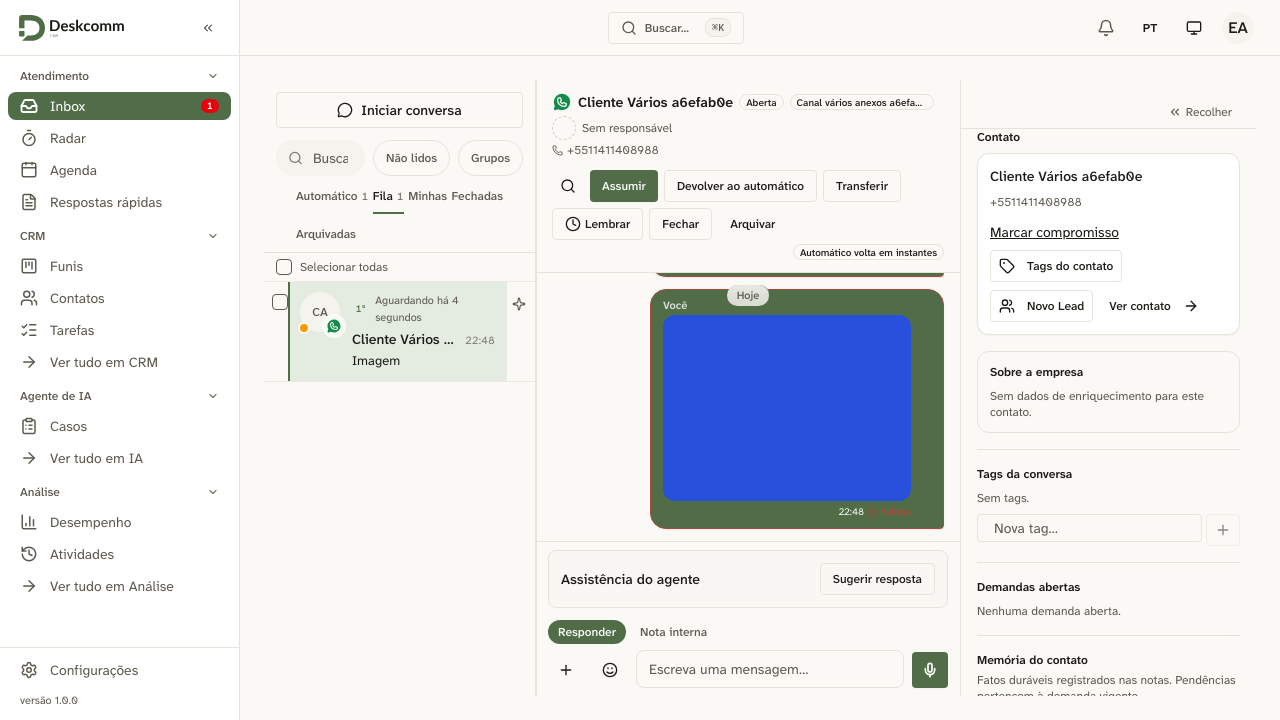
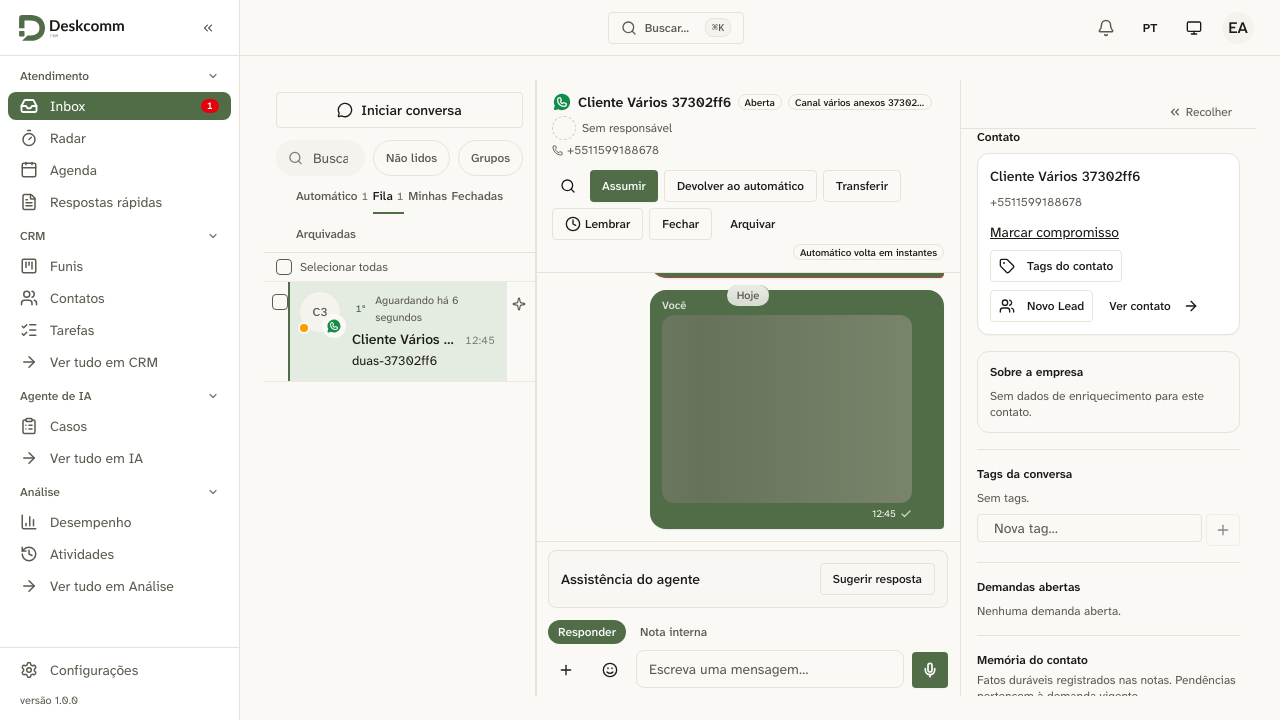
test(e2e): nota com duas fotos, teto de cinco e inválidos fora da leva
Três casos a mais em inbox-varios-anexos, pela tela e no ambiente isolado:
- (3) "Nota interna" com duas fotos grava duas notas, na ordem da escolha
  (medido no banco pelo tamanho de cada anexo);
- (4) seis fotos pelo "+": entram as cinco primeiras e o aviso do teto aparece;
- (5) arquivo vazio e .exe saem da leva com aviso nomeado; a foto válida segue.

Medido: 5/5 em duas rodadas seguidas (30,9 s e 27,1 s). Capturas 1–4
refeitas na mesma rodada; 5–8 novas. Sem dado de cliente.

diff --git a/tests/e2e/inbox-varios-anexos.spec.ts b/tests/e2e/inbox-varios-anexos.spec.ts
@@ -240,3 +240,78 @@ test("(2) o primeiro falha: o segundo não sai e a bolha dele diz por quê", asy
   await expect(page.getByRole("tooltip")).toContainText("Não saiu porque o arquivo anterior falhou.");
   await page.screenshot({ path: evidencia("4-segunda-nao-saiu.png") });
 });
+
+/** N cópias PNG válidas com nomes distintos — para medir o teto da leva. */
+function fotos(n: number) {
+  return Array.from({ length: n }, (_, i) => ({ ...FOTO_1, name: `leva-${i + 1}-${SUFIXO}.png` }));
+}
+
+test("(3) nota interna com duas fotos: duas notas, na ordem da escolha", async ({ page }) => {
+  await login(page);
+  await abrirConversa(page);
+  await page.getByRole("button", { name: "Nota interna" }).click();
+
+  const legenda = `nota-${SUFIXO}`;
+  await escolherDuasEEnviar(page, legenda, "5-nota-dialogo-com-as-duas.png");
+
+  // A nota não é otimista: o diálogo só fecha depois de as duas gravarem.
+  // Quem diz a ordem é o banco (created_at), medido pelo tamanho de cada anexo.
+  const linhas = async () => {
+    const { data, error } = await db
+      .from("conversation_notes")
+      .select("body, media_size_bytes, media_storage_path, created_at")
+      .eq("conversation_id", conversa)
+      .not("media_storage_path", "is", null)
+      .order("created_at", { ascending: true });
+    if (error) throw new Error(`conversation_notes: ${error.message}`);
+    return data as { body: string; media_size_bytes: number; media_storage_path: string }[];
+  };
+  await expect.poll(async () => (await linhas()).length, { timeout: 15_000 }).toBe(2);
+  const notas = await linhas();
+  console.info(`[inbox-varios-anexos] notas = ${JSON.stringify(notas.map((n) => ({ body: n.body, bytes: n.media_size_bytes })))}`);
+  expect(notas.map((n) => n.media_size_bytes)).toEqual([FOTO_1.buffer.length, FOTO_2.buffer.length]);
+  expect(notas[0]!.body).toBe(legenda);
+
+  const imagens = page.getByRole("img", { name: "Imagem da nota interna" });
+  await expect(imagens).toHaveCount(2, { timeout: 15_000 });
+  await imagens.nth(1).scrollIntoViewIfNeeded();
+  await page.screenshot({ path: evidencia("6-duas-notas.png") });
+});
+
+test("(4) seis fotos pelo \"+\": entram cinco e o aviso diz por quê", async ({ page }) => {
+  await login(page);
+  await abrirConversa(page);
+
+  await page.getByRole("button", { name: "Anexar" }).click();
+  const seis = fotos(6);
+  await page.locator('input[type="file"][accept^="image"]').setInputFiles(seis);
+
+  await expect(page.getByText("Dá para enviar até 5 arquivos de uma vez. Os demais ficaram de fora.")).toBeVisible();
+  const dialogo = page.getByRole("dialog", { name: "Enviar anexo" });
+  await expect(dialogo).toBeVisible();
+  const nomes = await dialogo.locator("img").evaluateAll((imgs) => imgs.map((i) => (i as HTMLImageElement).alt));
+  expect(nomes).toEqual(seis.slice(0, 5).map((f) => f.name));
+  await page.screenshot({ path: evidencia("7-teto-de-cinco.png") });
+  await dialogo.getByRole("button", { name: "Cancelar" }).click();
+  await expect(dialogo).toBeHidden();
+});
+
+test("(5) arquivo inválido na leva: sai com aviso nomeado e o válido segue", async ({ page }) => {
+  await login(page);
+  await abrirConversa(page);
+
+  await page.getByRole("button", { name: "Anexar" }).click();
+  const vazio = { name: `vazio-${SUFIXO}.png`, mimeType: "image/png", buffer: Buffer.alloc(0) };
+  const estranho = { name: `programa-${SUFIXO}.exe`, mimeType: "application/x-msdownload", buffer: Buffer.from("MZ") };
+  await page.locator('input[type="file"][accept^="image"]').setInputFiles([vazio, FOTO_1, estranho]);
+
+  await expect(page.getByText(`${vazio.name}: Arquivo vazio.`)).toBeVisible();
+  await expect(page.getByText(`${estranho.name}: Tipo de arquivo não suportado.`)).toBeVisible();
+  const dialogo = page.getByRole("dialog", { name: "Enviar anexo" });
+  await expect(dialogo).toBeVisible();
+  const nomes = await dialogo.locator("img").evaluateAll((imgs) => imgs.map((i) => (i as HTMLImageElement).alt));
+  expect(nomes).toEqual([FOTO_1.name]);
+  await page.screenshot({ path: evidencia("8-invalidos-fora-da-leva.png") });
+  await dialogo.getByRole("button", { name: "Cancelar" }).click();
+  await expect(dialogo).toBeHidden();
+});
